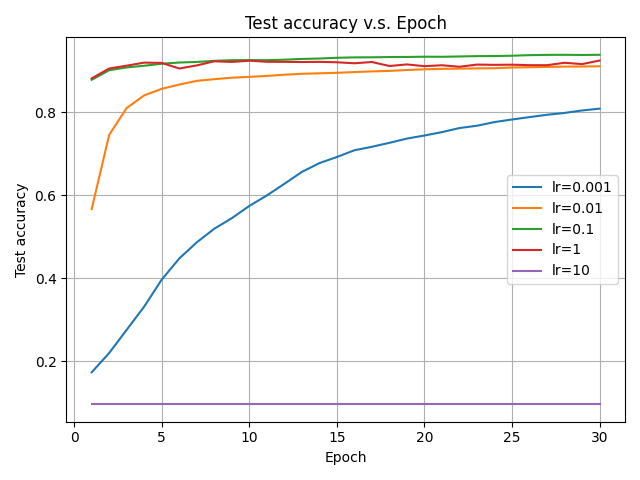
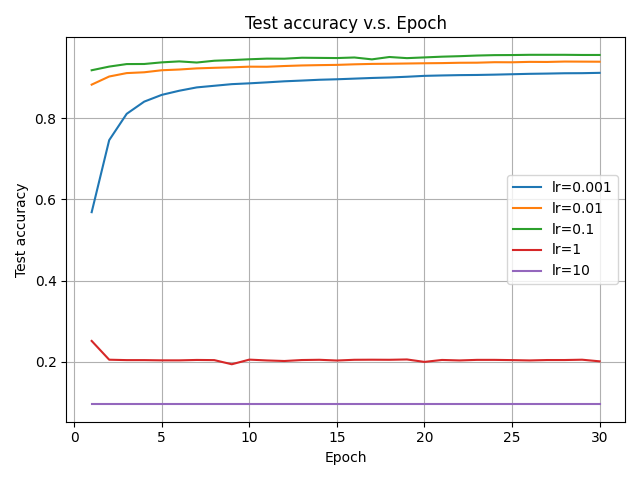
good main and graphs

diff --git a/backprop_main.py b/backprop_main.py
@@ -30,7 +30,7 @@ x_train, y_train, x_test, y_test = load_as_matrix_with_labels(n_train, n_test)
 
 # Training configuration
 epochs = 30
-batch_size = 100
+batch_size = 10
 learning_rates = [1e-3, 1e-2, 1e-1, 1, 10] #for section b
 
 
